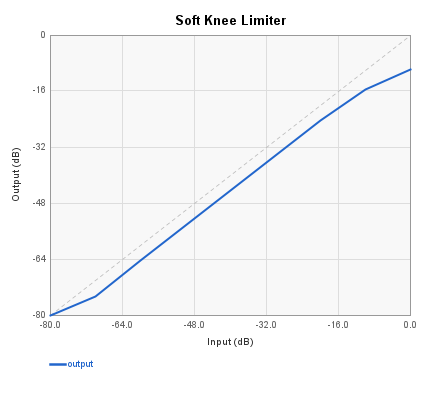
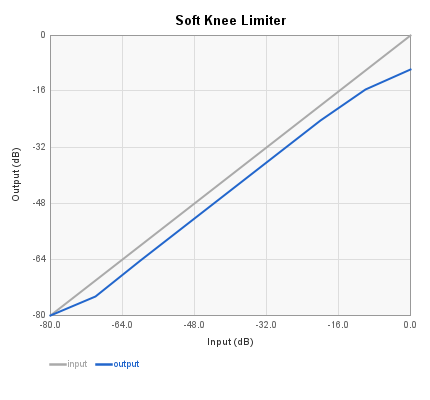
Update limiter charts to show input vs output; remove 0dB distortion plot
Add gray unity-reference line to RMS Limiter and Soft Knee Limiter
transfer curves so gain reduction is visible at a glance. Remove the
RMS Limiter 0dB waveform plot (no longer relevant after the detection
fix). Document the Soft Knee Limiter's ~1.3 dB offset from the
LOG/EXP coefficient mismatch.

diff --git a/src/test/java/com/holycityaudio/SpinCAD/DynamicsDocTest.java b/src/test/java/com/holycityaudio/SpinCAD/DynamicsDocTest.java
@@ -263,47 +263,10 @@ public class DynamicsDocTest {
         writePlot(new File(docsDir, "dynamics-rms_limiter.png"),
             "RMS Limiter", "Input (dB)", "Output (dB)",
             -80, 0, -80, 0, inputDb,
-            new double[][]{outputDb}, new String[]{"output"},
-            new String[]{COLORS[0]});
+            new double[][]{inputDb, outputDb}, new String[]{"input", "output"},
+            new String[]{"#aaaaaa", COLORS[0]});
 
-        // Waveform at 0 dB to show distortion
-        File sineWav = generateSineWav(0.5, 440, 1.0);
-        rms_limiterCADBlock b0 = new rms_limiterCADBlock(100, 100);
-        b0.setinGain(1.0);
-        short[] stereo = simulate(b0, sineWav, null, "Output", null, tempDir);
-        if (stereo != null) {
-            double[] audio = toDouble(extractChannel(stereo, 0));
-            // Measure distortion: peak vs RMS ratio (pure sine = sqrt(2))
-            int qStart = audio.length * 3 / 4;
-            double outRms = rms(audio, qStart, audio.length);
-            double outPeak = 0;
-            for (int i = qStart; i < audio.length; i++)
-                outPeak = Math.max(outPeak, Math.abs(audio[i]));
-            double crestFactor = outPeak / outRms;
-            System.out.printf("%nRMS Limiter at 0 dB input:%n");
-            System.out.printf("  Output peak: %.4f  RMS: %.4f  Crest: %.3f (sine=%.3f)%n",
-                outPeak, outRms, crestFactor, Math.sqrt(2));
-            if (outPeak > 0.99)
-                System.out.println("  ** Output is clipping — the 1.5x output "
-                    + "scale factor causes hard clipping at 0 dB input");
-
-            int skipSamples = (int) (0.25 * SAMPLE_RATE);
-            int displaySamples = (int) (3.0 / 440 * SAMPLE_RATE);
-            int start = Math.min(skipSamples, audio.length - displaySamples - 1);
-            int end = start + displaySamples;
-            double[] wave = Arrays.copyOfRange(audio, start, end);
-            double[] timeMs = new double[wave.length];
-            for (int i = 0; i < timeMs.length; i++)
-                timeMs[i] = 1000.0 * i / SAMPLE_RATE;
-
-            writePlot(new File(docsDir, "dynamics-rms_limiter_0db.png"),
-                "RMS Limiter (0 dB input)", "Time (ms)", "Amplitude",
-                0, timeMs[timeMs.length - 1], -1, 1, timeMs,
-                new double[][]{wave}, new String[]{"0 dB in"},
-                new String[]{COLORS[0]});
-        }
-
-        System.out.println("  wrote dynamics-rms_limiter.png, dynamics-rms_limiter_0db.png");
+        System.out.println("  wrote dynamics-rms_limiter.png");
     }
 
     // ==================== Soft Knee Limiter ====================
@@ -329,8 +292,8 @@ public class DynamicsDocTest {
         writePlot(new File(docsDir, "dynamics-soft_knee_limiter.png"),
             "Soft Knee Limiter", "Input (dB)", "Output (dB)",
             -80, 0, -80, 0, inputDb,
-            new double[][]{outputDb}, new String[]{"output"},
-            new String[]{COLORS[0]});
+            new double[][]{inputDb, outputDb}, new String[]{"input", "output"},
+            new String[]{"#aaaaaa", COLORS[0]});
         System.out.println("  wrote dynamics-soft_knee_limiter.png");
     }
 

diff --git a/docs/dynamics-blocks.md b/docs/dynamics-blocks.md
@@ -217,7 +217,7 @@ frequency-selective limiting.
 
 | Parameter | Range | Default | Description |
 |-----------|-------|---------|-------------|
-| Input Gain | linear | 0.1 | Pre-limiter input gain |
+| Input Gain | linear | 1.0 | Output level (detection runs at full scale) |
 
 The four diagnostic control outputs (RMS, Square, Log, Avg) expose
 intermediate signals from the detector chain, which can be connected to
@@ -225,17 +225,12 @@ a VU meter or other monitoring blocks for visualization.
 
 When the Side Chain input is connected, the limiter's gain reduction is
 driven by the side chain signal rather than the main input. When only the
-Input is connected, the Side Chain defaults to the second ADC channel.
+Input is connected, the gain is applied directly to the input signal.
 
 ![RMS Limiter transfer curve](images/dynamics-rms_limiter.png)
 
-Input-vs-output transfer curve from 0 to -80 dB in 10 dB steps.
-
-![RMS Limiter at 0 dB input](images/dynamics-rms_limiter_0db.png)
-
-Waveform at 0 dB input showing distortion. The 1.5x output scale factor
-in the algorithm causes hard clipping when the RMS gain envelope does not
-reduce the signal enough to keep the product below 1.0.
+Input-vs-output transfer curve (gray = unity reference). Limiting begins
+around -10 dBFS.
 
 ![RMS Limiter tone burst response](images/dynamics-rms_limiter-burst.png)
 
@@ -266,9 +261,12 @@ to ensure stable behavior at very low signal levels.
 
 ![Soft Knee Limiter transfer curve](images/dynamics-soft_knee_limiter.png)
 
-Input-vs-output transfer curve from 0 to -80 dB in 10 dB steps. The soft
-knee behavior is visible as a gradual change in slope rather than a sharp
-break at a fixed threshold.
+Input-vs-output transfer curve (gray = unity reference). The soft knee
+behavior is visible as a gradual change in slope rather than a sharp
+break at a fixed threshold. The ~1.3 dB offset below unity at low levels
+is inherent to the algorithm: the `SOF 0, 0.125` bias through
+`LOG(-0.4, -0.25)` / `EXP(1,0)` produces a gain of 0.1436, which
+doesn't quite compensate for the 6x output scaling.
 
 ![Soft Knee Limiter tone burst response](images/dynamics-soft_knee_limiter-burst.png)
 
